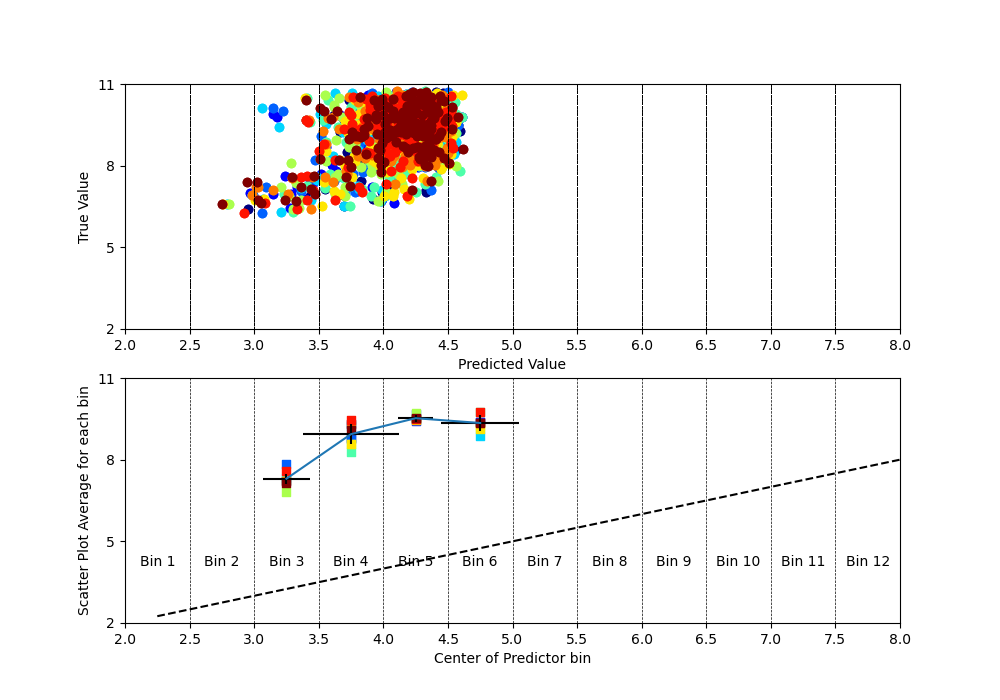
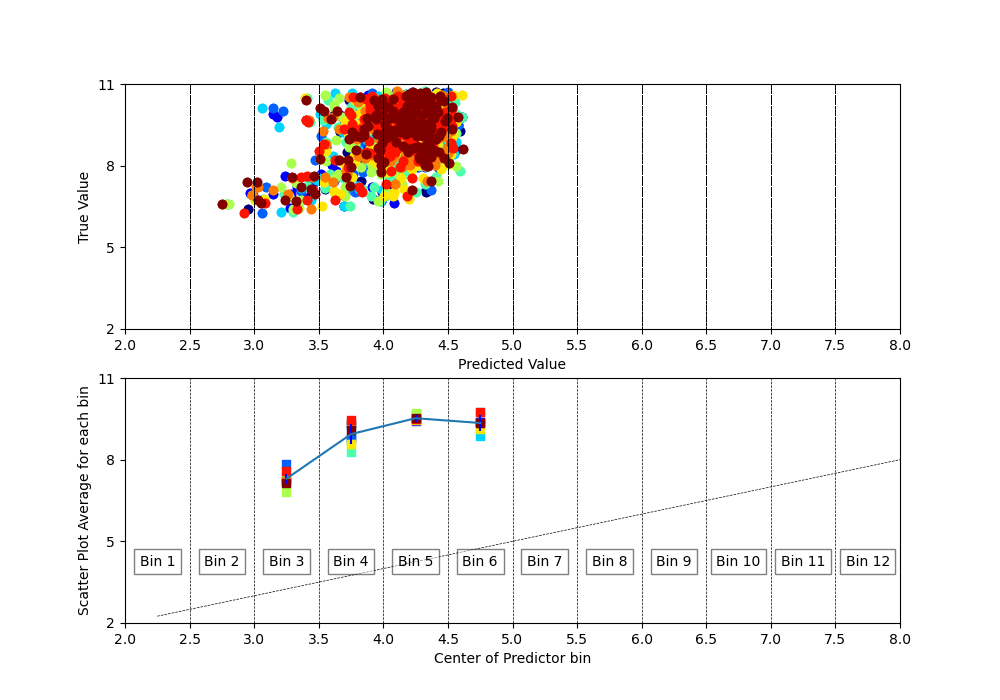
"minor cosmetic changes in fig1.plot2"

diff --git a/SLM_tools.py b/SLM_tools.py
@@ -441,7 +441,7 @@ class SLM_tools:
             # if i_4 is None:
             #     i_4 = len(mean_hista) - 1
             i_4 = len(mean_hista) - 1  # TODO: check in testing
-            b.scatter(x_hist_space[:i_4], mean_hista[:i_4], marker='s', color=color_map[i, :])  # grap 1 subplot 2
+            b.scatter(x_hist_space[:i_4], mean_hista[:i_4], marker='s', color=color_map[i, :],zorder=1)  # grap 1 subplot 2
             b.set_xticks(x_ticks)
             b.set_yticks(y_ticks)
             b.set_xlim(x_ticks[0], x_ticks[-1])
@@ -466,14 +466,13 @@ class SLM_tools:
             else:
                 mean_vec[row] = np.nan
                 std_vec[row] = np.nan
-        b.plot(x_hist_space[:i_4], x_hist_space[:i_4], linestyle='--', color='k')
-        b.errorbar(x_hist_space, mean_vec, yerr=std_vec, xerr=std_vec,
-                   ecolor='k')  # TODO: might crash, yerr and xerr are different in matlab
+        b.plot(x_hist_space[:i_4], x_hist_space[:i_4], linestyle='--', color='k', linewidth=0.5,zorder=2)
+        b.errorbar(x_hist_space, mean_vec, yerr=std_vec, ecolor='b',zorder=3)
         for k in range(1, len(x_ticks)):
             b.axvline(x_ticks[k - 1], color='k', linestyle='--', linewidth=0.5)
             x_pos = (x_ticks[k-1] + x_ticks[k])/2
             y_pos = y_ticks[0] + 2
-            b.text(x_pos, y_pos, f"Bin {k}", ha='center', va='bottom')
+            b.text(x_pos, y_pos, f"Bin {k}", ha='center', va='bottom',bbox=dict(facecolor='white', alpha=0.5), zorder=4)
         b.set_ylabel("Scatter Plot Average for each bin")
         b.set_xlabel("Center of Predictor bin")
         fig_1.savefig(os.path.join(save_path, 'fig_1.png'))
@@ -564,8 +563,6 @@ class SLM_tools:
 
     @staticmethod
     def multiple_boxplot(data, ax, xlab=None, Mlab=None, colors=None):
-        if not isinstance(data, list):
-            raise ValueError('Input data is not even a cell array!')
         M = len(data[0])  # Number of data for the same group
         L = len(data)  # Number of groups
         # Check optional inputs
